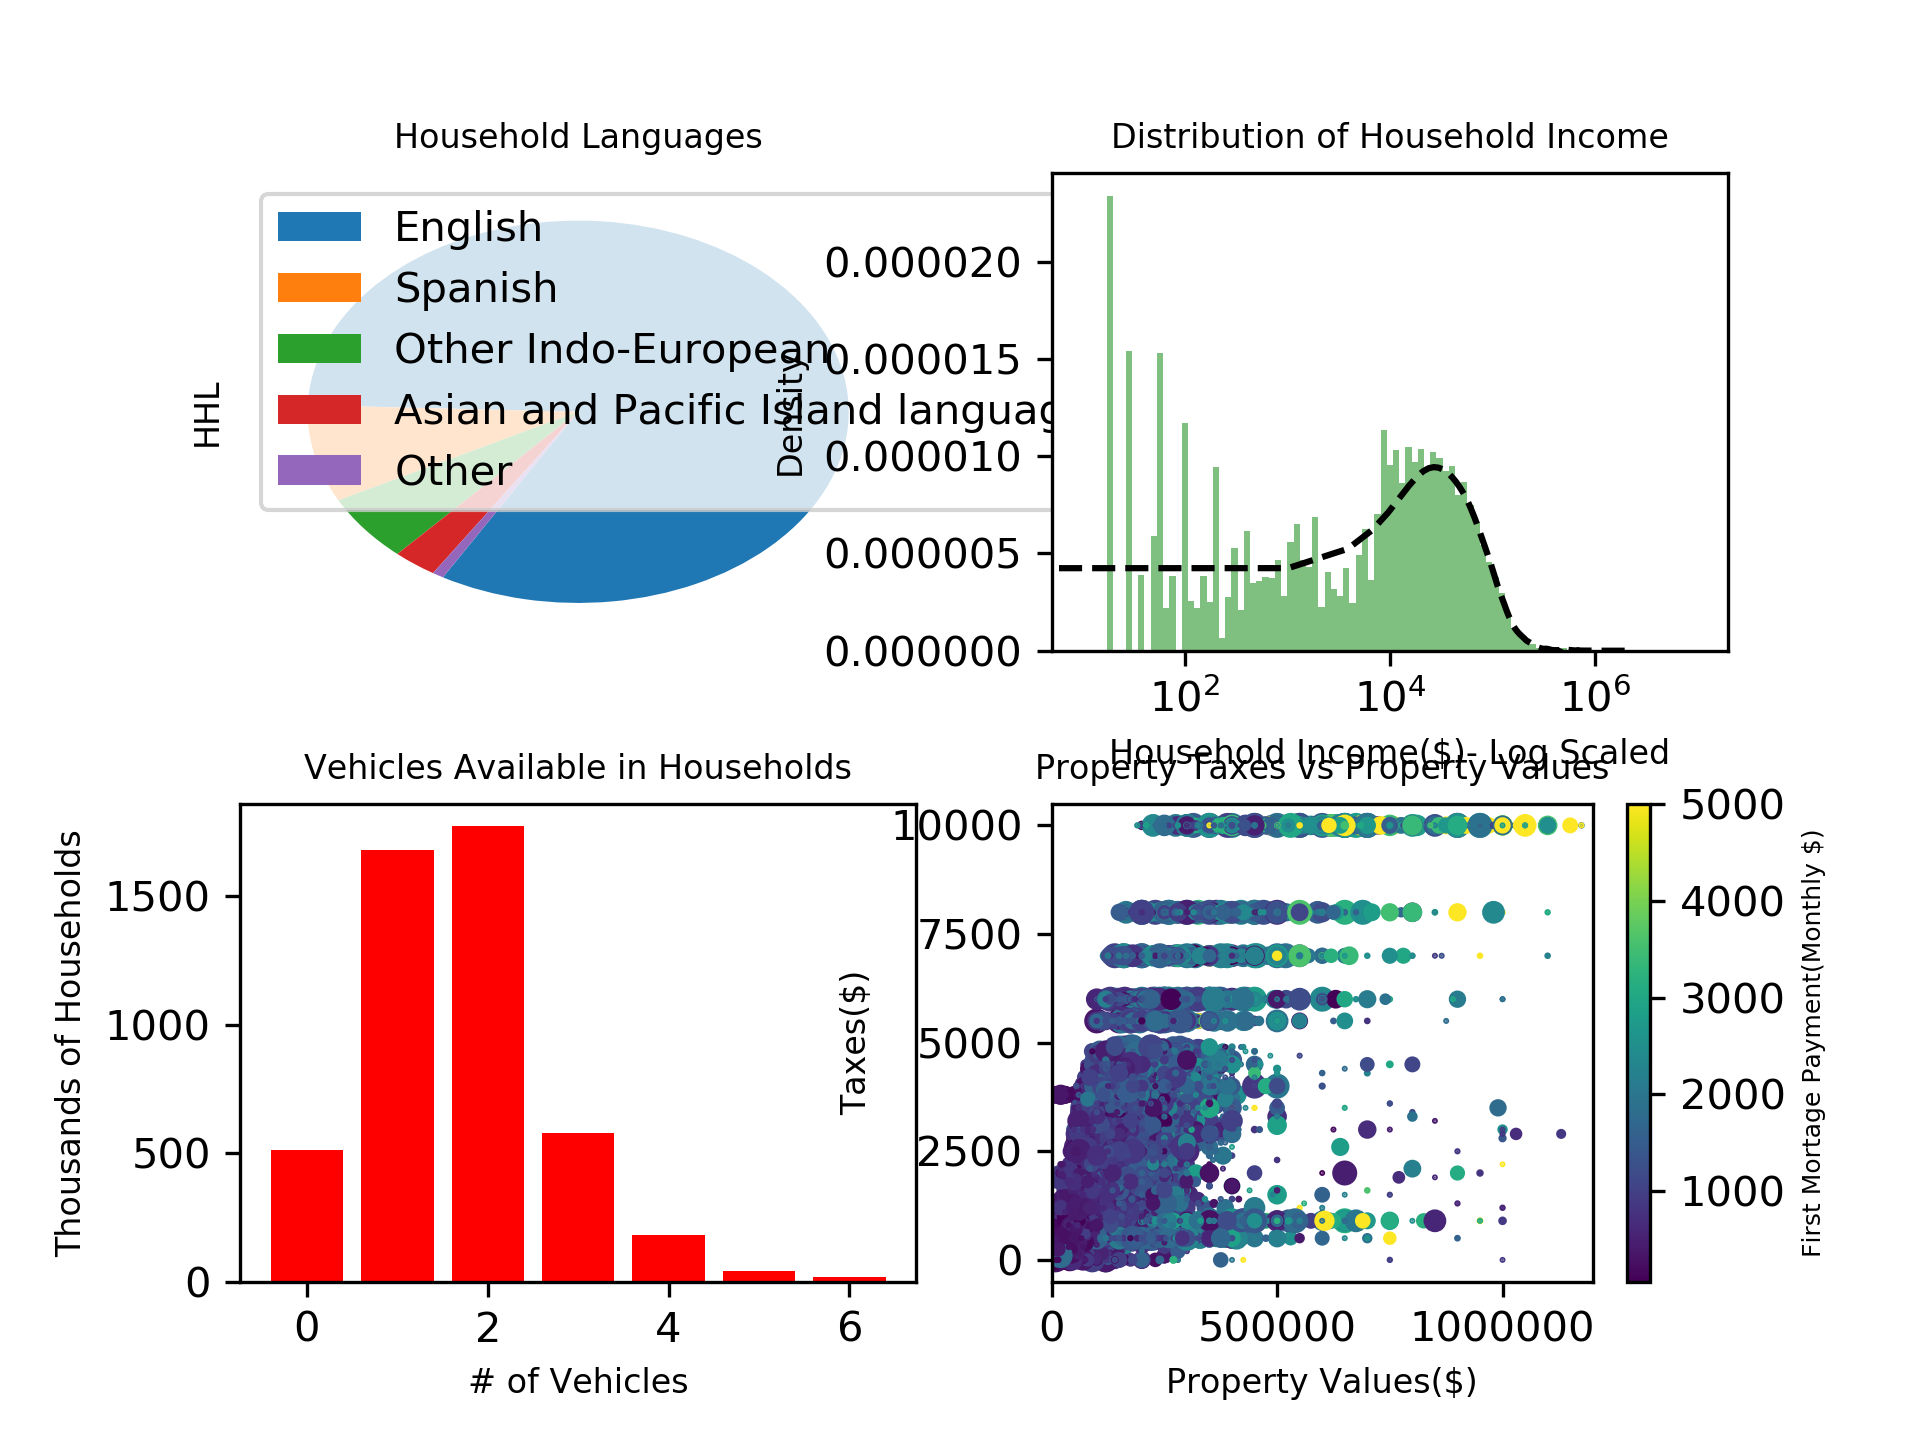
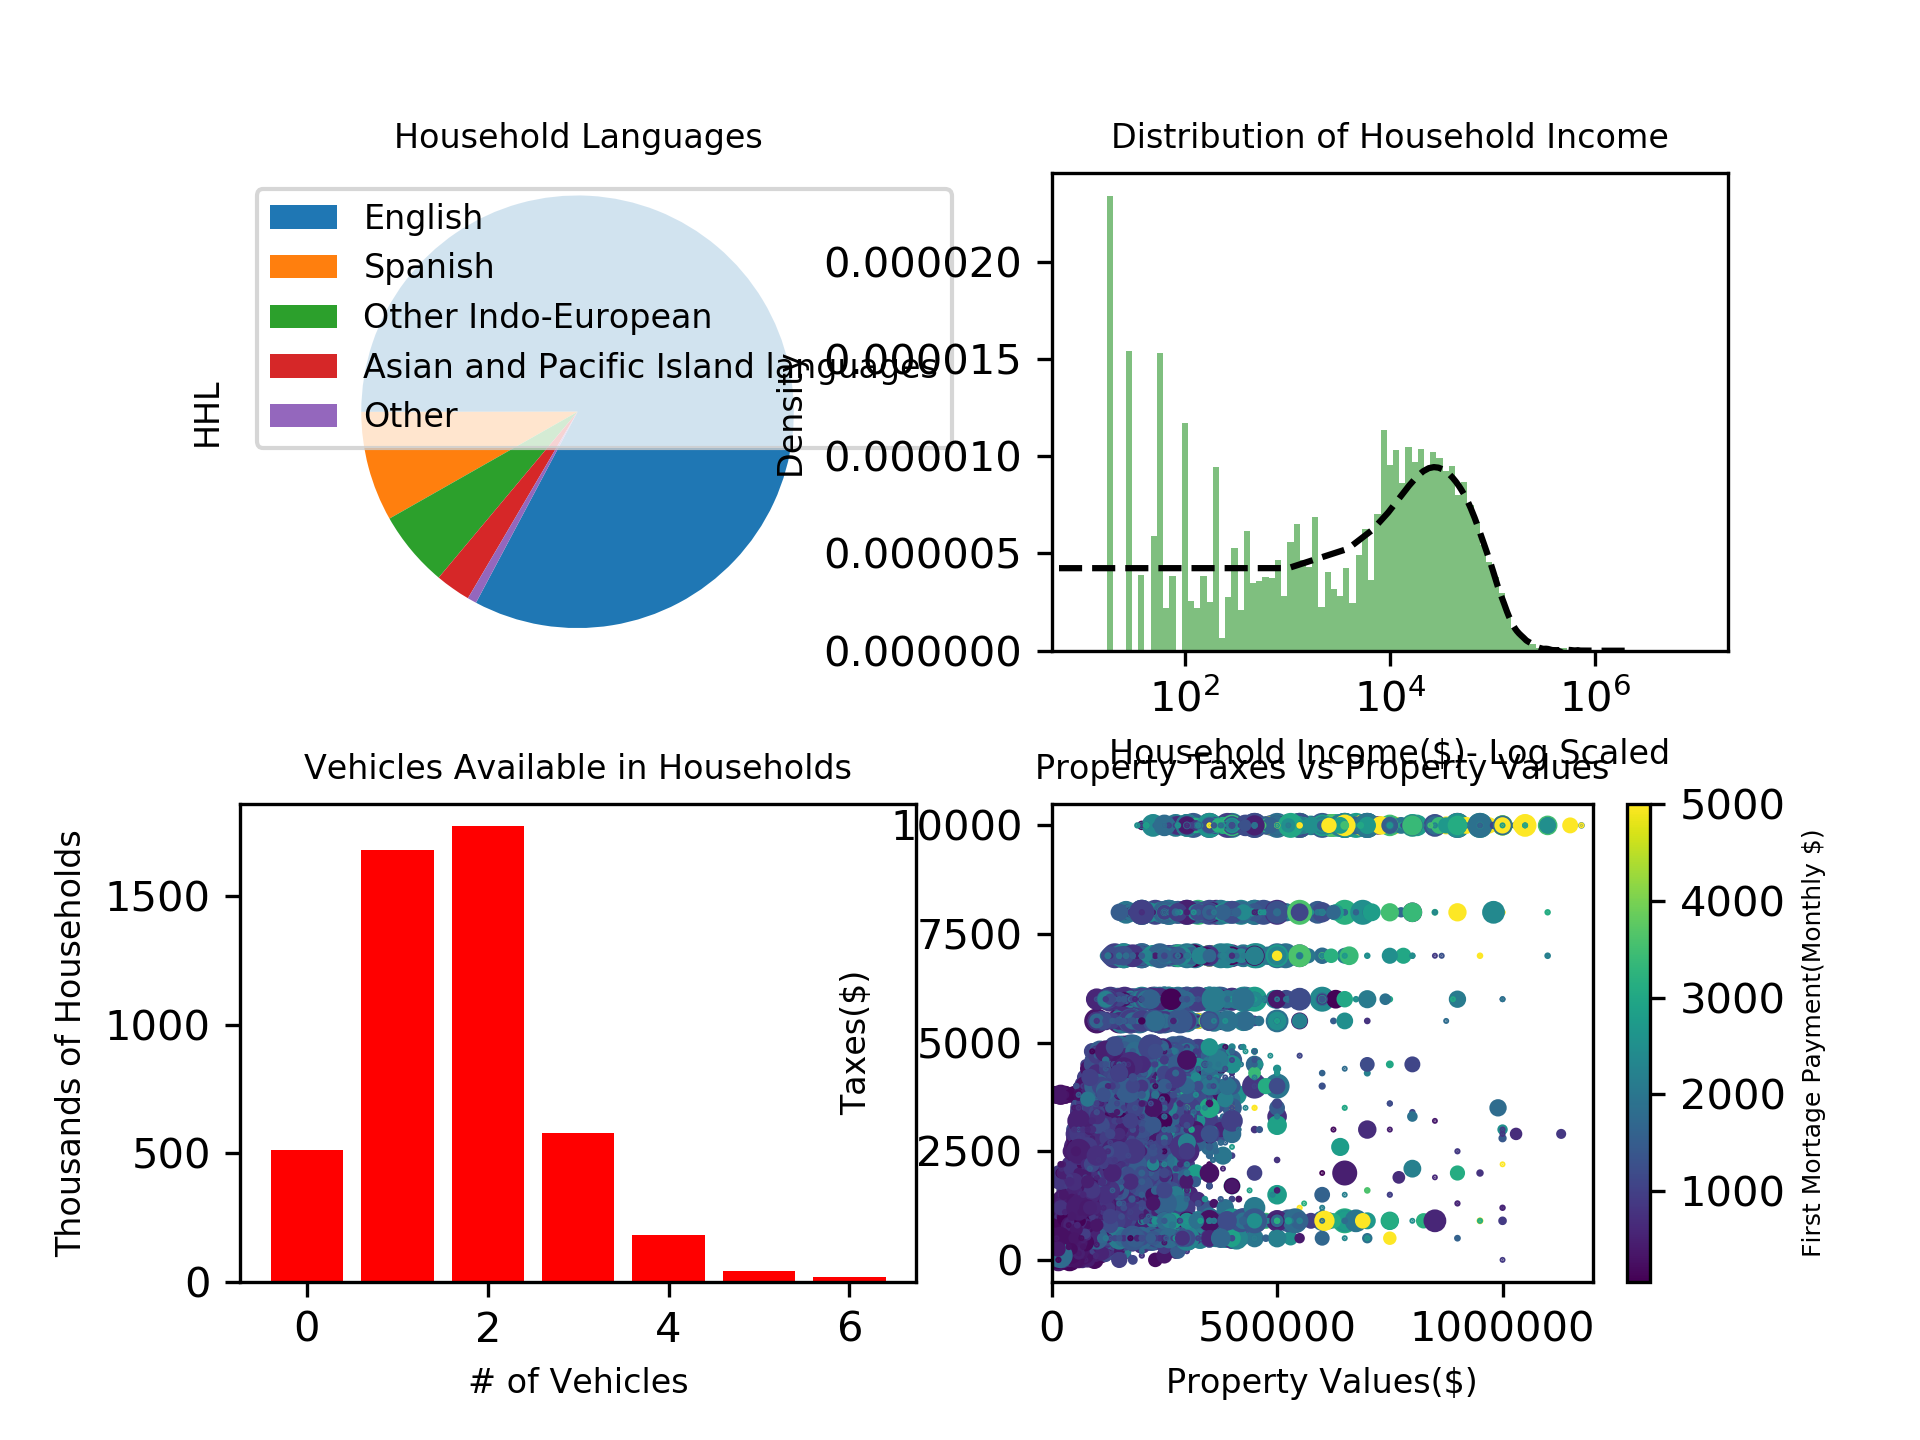
fixed oblong circle

Changed region(s): [[0.125, 0.125, 0.5625, 0.4375], [0.5625, 0.875, 0.5938, 0.9062]]

diff --git a/Assignment/vispums.py b/Assignment/vispums.py
@@ -22,13 +22,12 @@ fig, axs = plt.subplots(2, 2)
 fig.subplots_adjust(hspace=0.32)
 
 # Upper Left Subplot - Pie Chart contaning num of household records for the different values of HHL Column
-# TODO fix circle so not oblong
 pie_key=['English','Spanish','Other Indo-European','Asian and Pacific Island languages','Other']
 axs[0,0].set_title('Household Languages', fontsize=8)
-axs[0,0].pie(pums_dataframe.HHL.value_counts().dropna(),startangle=240)
-axs[0,0].legend(pie_key,loc="upper left")
+axs[0,0].pie(pums_dataframe.HHL.value_counts().dropna(),startangle=242)
+axs[0,0].legend(pie_key,loc=2, fontsize=8)
 axs[0,0].set_ylabel('HHL', fontsize=8)
-
+axs[0,0].axis('equal')
 
 #  Upper Right Subplot - Histogram of HINCP Column with KDE plot superimposed
 # Set the title
